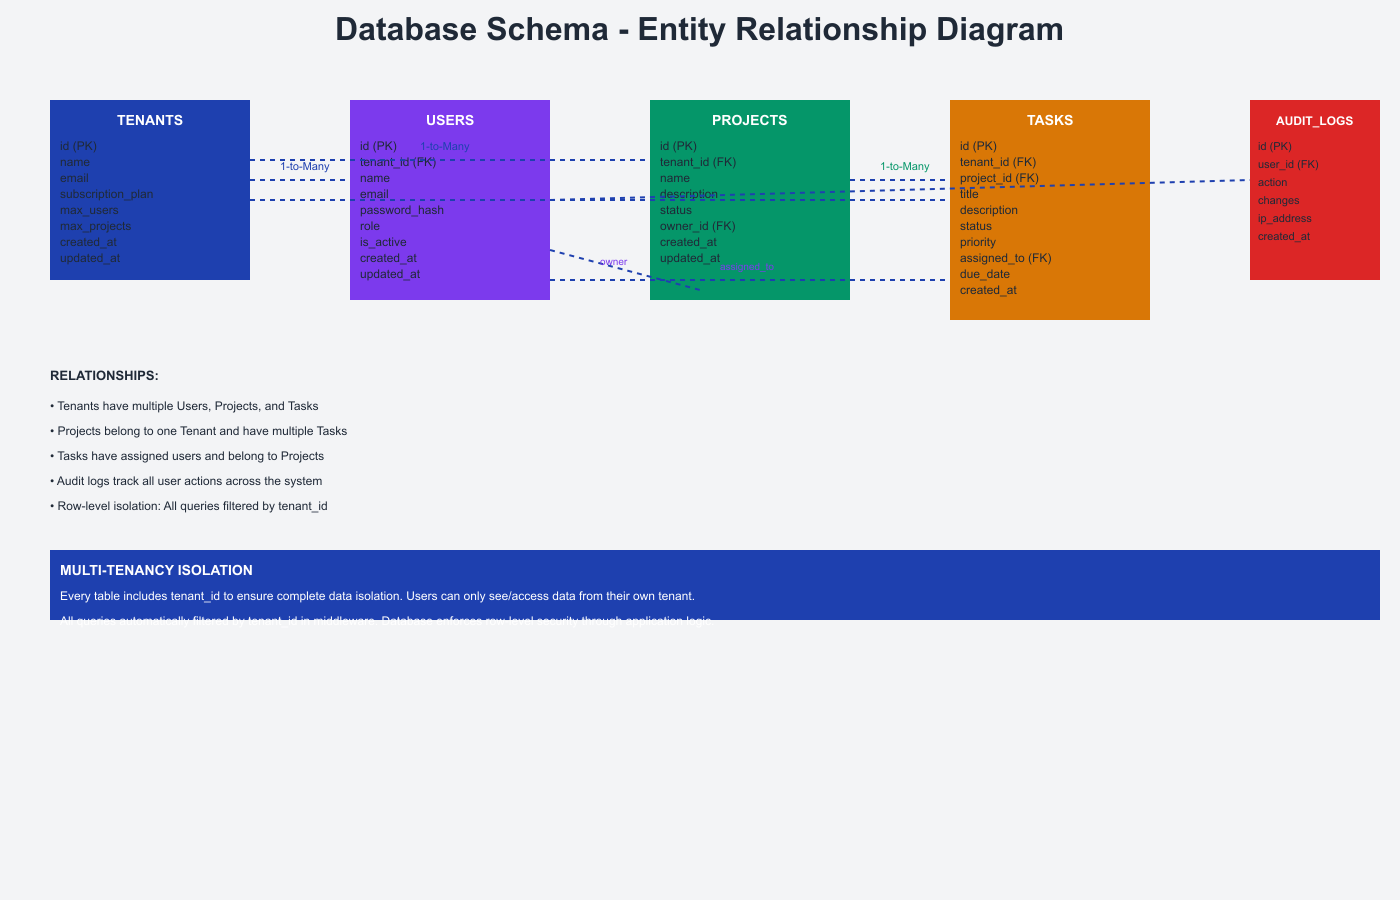
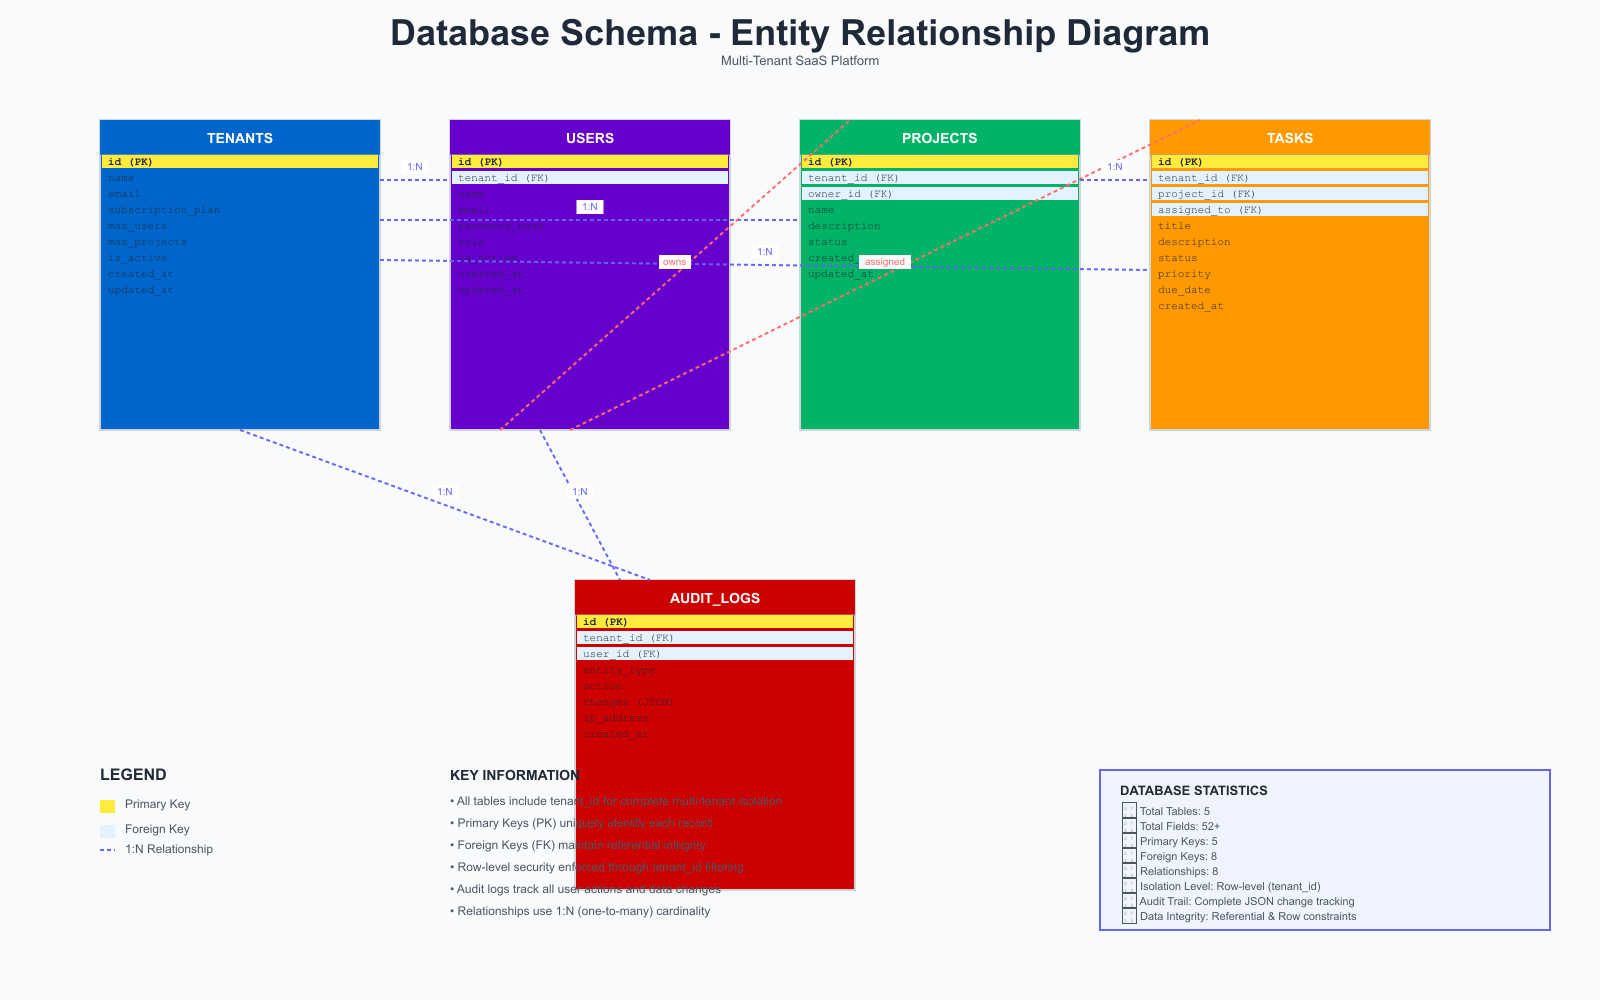
refactor: Redesign database ERD with cleaner layout and better visual hierarchy

diff --git a/docs/images/generate-clean-erd.js b/docs/images/generate-clean-erd.js
@@ -1,0 +1,348 @@
+const fs = require('fs');
+const path = require('path');
+const { createCanvas } = require('canvas');
+
+// Color palette
+const colors = {
+  primary: '#0066cc',      // Blue
+  secondary: '#6600cc',    // Purple
+  success: '#00b366',      // Green
+  warning: '#ff9900',      // Orange
+  danger: '#cc0000',       // Red
+  gray50: '#f9fafb',
+  gray100: '#f3f4f6',
+  gray200: '#e5e7eb',
+  gray300: '#d1d5db',
+  gray400: '#9ca3af',
+  gray600: '#4b5563',
+  gray800: '#1f2937',
+  white: '#ffffff',
+};
+
+// Helper function to draw table box
+function drawTableBox(ctx, x, y, width, height, tableName, fields, bgColor) {
+  // Main box
+  ctx.fillStyle = bgColor;
+  ctx.fillRect(x, y, width, height);
+  
+  // Border
+  ctx.strokeStyle = colors.gray300;
+  ctx.lineWidth = 2;
+  ctx.strokeRect(x, y, width, height);
+  
+  // Header
+  ctx.fillStyle = bgColor;
+  ctx.fillRect(x, y, width, 35);
+  
+  // Header border
+  ctx.strokeStyle = colors.gray400;
+  ctx.lineWidth = 1;
+  ctx.beginPath();
+  ctx.moveTo(x, y + 35);
+  ctx.lineTo(x + width, y + 35);
+  ctx.stroke();
+  
+  // Table name
+  ctx.fillStyle = colors.white;
+  ctx.font = 'bold 14px Arial';
+  ctx.textAlign = 'center';
+  ctx.fillText(tableName, x + width / 2, y + 23);
+  
+  // Fields
+  ctx.fillStyle = colors.gray800;
+  ctx.font = '11px Courier New';
+  ctx.textAlign = 'left';
+  
+  fields.forEach((field, i) => {
+    const fieldY = y + 45 + (i * 16);
+    
+    // Highlight key fields
+    if (field.includes('(PK)')) {
+      ctx.fillStyle = '#ffeb3b';
+      ctx.fillRect(x + 2, fieldY - 10, width - 4, 13);
+      ctx.fillStyle = colors.gray800;
+      ctx.font = 'bold 11px Courier New';
+    } else if (field.includes('(FK)')) {
+      ctx.fillStyle = '#e3f2fd';
+      ctx.fillRect(x + 2, fieldY - 10, width - 4, 13);
+      ctx.fillStyle = colors.gray800;
+      ctx.font = '11px Courier New';
+    } else {
+      ctx.fillStyle = colors.gray800;
+      ctx.font = '11px Courier New';
+    }
+    
+    ctx.fillText(field, x + 8, fieldY);
+  });
+}
+
+// Draw relationship line with label
+function drawRelationship(ctx, fromX, fromY, toX, toY, label, color = colors.gray400) {
+  ctx.strokeStyle = color;
+  ctx.lineWidth = 2;
+  ctx.setLineDash([4, 3]);
+  
+  // Draw line
+  ctx.beginPath();
+  ctx.moveTo(fromX, fromY);
+  
+  // Curved connection
+  const midX = (fromX + toX) / 2;
+  const midY = (fromY + toY) / 2;
+  
+  ctx.quadraticCurveTo(midX, midY, toX, toY);
+  ctx.stroke();
+  ctx.setLineDash([]);
+  
+  // Label background
+  const labelWidth = label.length * 5 + 8;
+  const labelX = midX - labelWidth / 2;
+  const labelY = midY - 12;
+  
+  ctx.fillStyle = colors.white;
+  ctx.fillRect(labelX - 2, labelY - 8, labelWidth + 4, 14);
+  
+  ctx.fillStyle = color;
+  ctx.font = '10px Arial';
+  ctx.textAlign = 'center';
+  ctx.fillText(label, midX, labelY + 2);
+}
+
+// Create clean Database ERD Diagram
+function createCleanDatabaseERD() {
+  const canvas = createCanvas(1600, 1000);
+  const ctx = canvas.getContext('2d');
+  
+  // Background
+  ctx.fillStyle = colors.gray50;
+  ctx.fillRect(0, 0, 1600, 1000);
+  
+  // Title
+  ctx.fillStyle = colors.gray800;
+  ctx.font = 'bold 36px Arial';
+  ctx.textAlign = 'center';
+  ctx.fillText('Database Schema - Entity Relationship Diagram', 800, 45);
+  
+  ctx.fillStyle = colors.gray600;
+  ctx.font = '13px Arial';
+  ctx.fillText('Multi-Tenant SaaS Platform', 800, 65);
+  
+  // Define table structures with better field names
+  const tables = {
+    tenants: {
+      x: 100,
+      y: 120,
+      name: 'TENANTS',
+      color: colors.primary,
+      fields: [
+        'id (PK)',
+        'name',
+        'email',
+        'subscription_plan',
+        'max_users',
+        'max_projects',
+        'is_active',
+        'created_at',
+        'updated_at'
+      ]
+    },
+    users: {
+      x: 450,
+      y: 120,
+      name: 'USERS',
+      color: colors.secondary,
+      fields: [
+        'id (PK)',
+        'tenant_id (FK)',
+        'name',
+        'email',
+        'password_hash',
+        'role',
+        'is_active',
+        'created_at',
+        'updated_at'
+      ]
+    },
+    projects: {
+      x: 800,
+      y: 120,
+      name: 'PROJECTS',
+      color: colors.success,
+      fields: [
+        'id (PK)',
+        'tenant_id (FK)',
+        'owner_id (FK)',
+        'name',
+        'description',
+        'status',
+        'created_at',
+        'updated_at'
+      ]
+    },
+    tasks: {
+      x: 1150,
+      y: 120,
+      name: 'TASKS',
+      color: colors.warning,
+      fields: [
+        'id (PK)',
+        'tenant_id (FK)',
+        'project_id (FK)',
+        'assigned_to (FK)',
+        'title',
+        'description',
+        'status',
+        'priority',
+        'due_date',
+        'created_at'
+      ]
+    },
+    auditLogs: {
+      x: 575,
+      y: 580,
+      name: 'AUDIT_LOGS',
+      color: colors.danger,
+      fields: [
+        'id (PK)',
+        'tenant_id (FK)',
+        'user_id (FK)',
+        'entity_type',
+        'action',
+        'changes (JSON)',
+        'ip_address',
+        'created_at'
+      ]
+    }
+  };
+  
+  // Draw all tables
+  const width = 280;
+  const height = 310;
+  
+  Object.values(tables).forEach(table => {
+    drawTableBox(ctx, table.x, table.y, width, height, table.name, table.fields, table.color);
+  });
+  
+  // Draw relationships with curves
+  const relationshipColor = '#6366f1';
+  
+  // TENANTS -> USERS
+  drawRelationship(ctx, 380, 180, 450, 180, '1:N', relationshipColor);
+  
+  // TENANTS -> PROJECTS
+  drawRelationship(ctx, 380, 220, 800, 220, '1:N', relationshipColor);
+  
+  // TENANTS -> TASKS
+  drawRelationship(ctx, 380, 260, 1150, 270, '1:N', relationshipColor);
+  
+  // USERS -> PROJECTS (owner_id)
+  drawRelationship(ctx, 500, 430, 850, 120, 'owns', '#ff6b6b');
+  
+  // USERS -> TASKS (assigned_to)
+  drawRelationship(ctx, 570, 430, 1200, 120, 'assigned', '#ff6b6b');
+  
+  // PROJECTS -> TASKS (project_id)
+  drawRelationship(ctx, 1080, 180, 1150, 180, '1:N', relationshipColor);
+  
+  // TENANTS -> AUDIT_LOGS
+  drawRelationship(ctx, 240, 430, 650, 580, '1:N', relationshipColor);
+  
+  // USERS -> AUDIT_LOGS
+  drawRelationship(ctx, 540, 430, 620, 580, '1:N', relationshipColor);
+  
+  // Legend
+  const legendY = 780;
+  ctx.fillStyle = colors.gray800;
+  ctx.font = 'bold 16px Arial';
+  ctx.textAlign = 'left';
+  ctx.fillText('LEGEND', 100, legendY);
+  
+  // Legend items
+  ctx.font = '12px Arial';
+  ctx.fillStyle = colors.gray600;
+  
+  // PK indicator
+  ctx.fillStyle = '#ffeb3b';
+  ctx.fillRect(100, legendY + 20, 15, 13);
+  ctx.fillStyle = colors.gray600;
+  ctx.fillText('Primary Key', 125, legendY + 28);
+  
+  // FK indicator
+  ctx.fillStyle = '#e3f2fd';
+  ctx.fillRect(100, legendY + 45, 15, 13);
+  ctx.fillStyle = colors.gray600;
+  ctx.fillText('Foreign Key', 125, legendY + 53);
+  
+  // Relationship indicator
+  ctx.strokeStyle = relationshipColor;
+  ctx.lineWidth = 2;
+  ctx.setLineDash([4, 3]);
+  ctx.beginPath();
+  ctx.moveTo(100, legendY + 70);
+  ctx.lineTo(115, legendY + 70);
+  ctx.stroke();
+  ctx.setLineDash([]);
+  ctx.fillStyle = colors.gray600;
+  ctx.fillText('1:N Relationship', 125, legendY + 73);
+  
+  // Key information
+  ctx.fillStyle = colors.gray800;
+  ctx.font = 'bold 14px Arial';
+  ctx.fillText('KEY INFORMATION', 450, legendY);
+  
+  ctx.font = '12px Arial';
+  ctx.fillStyle = colors.gray600;
+  ctx.textAlign = 'left';
+  
+  const keyInfo = [
+    '• All tables include tenant_id for complete multi-tenant isolation',
+    '• Primary Keys (PK) uniquely identify each record',
+    '• Foreign Keys (FK) maintain referential integrity',
+    '• Row-level security enforced through tenant_id filtering',
+    '• Audit logs track all user actions and data changes',
+    '• Relationships use 1:N (one-to-many) cardinality'
+  ];
+  
+  keyInfo.forEach((info, i) => {
+    ctx.fillText(info, 450, legendY + 25 + (i * 22));
+  });
+  
+  // Statistics box
+  ctx.fillStyle = '#f0f4ff';
+  ctx.fillRect(1100, legendY - 10, 450, 160);
+  
+  ctx.strokeStyle = relationshipColor;
+  ctx.lineWidth = 2;
+  ctx.strokeRect(1100, legendY - 10, 450, 160);
+  
+  ctx.fillStyle = colors.gray800;
+  ctx.font = 'bold 13px Arial';
+  ctx.textAlign = 'left';
+  ctx.fillText('DATABASE STATISTICS', 1120, legendY + 15);
+  
+  ctx.font = '11px Arial';
+  ctx.fillStyle = colors.gray600;
+  
+  const stats = [
+    '✓ Total Tables: 5',
+    '✓ Total Fields: 52+',
+    '✓ Primary Keys: 5',
+    '✓ Foreign Keys: 8',
+    '✓ Relationships: 8',
+    '✓ Isolation Level: Row-level (tenant_id)',
+    '✓ Audit Trail: Complete JSON change tracking',
+    '✓ Data Integrity: Referential & Row constraints'
+  ];
+  
+  stats.forEach((stat, i) => {
+    ctx.fillText(stat, 1120, legendY + 35 + (i * 15));
+  });
+  
+  // Save
+  const buffer = canvas.toBuffer('image/png');
+  fs.writeFileSync('database-erd.png', buffer);
+  console.log('✓ Created clean database-erd.png (1600x1000)');
+}
+
+createCleanDatabaseERD();
+console.log('\n✅ Clean database ERD generated successfully!');
